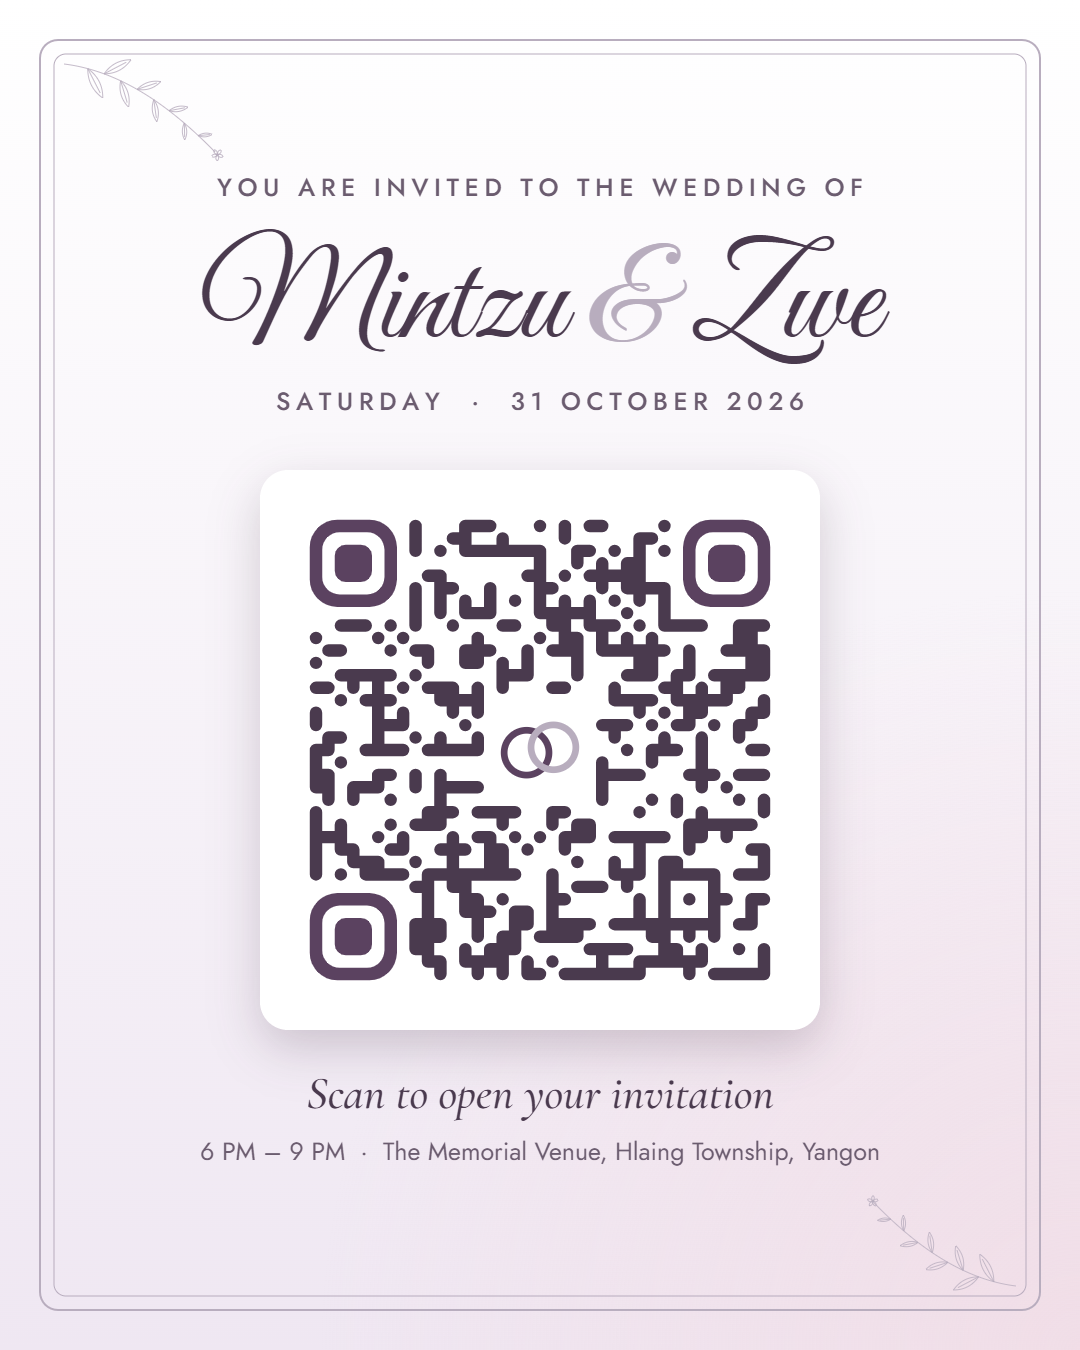
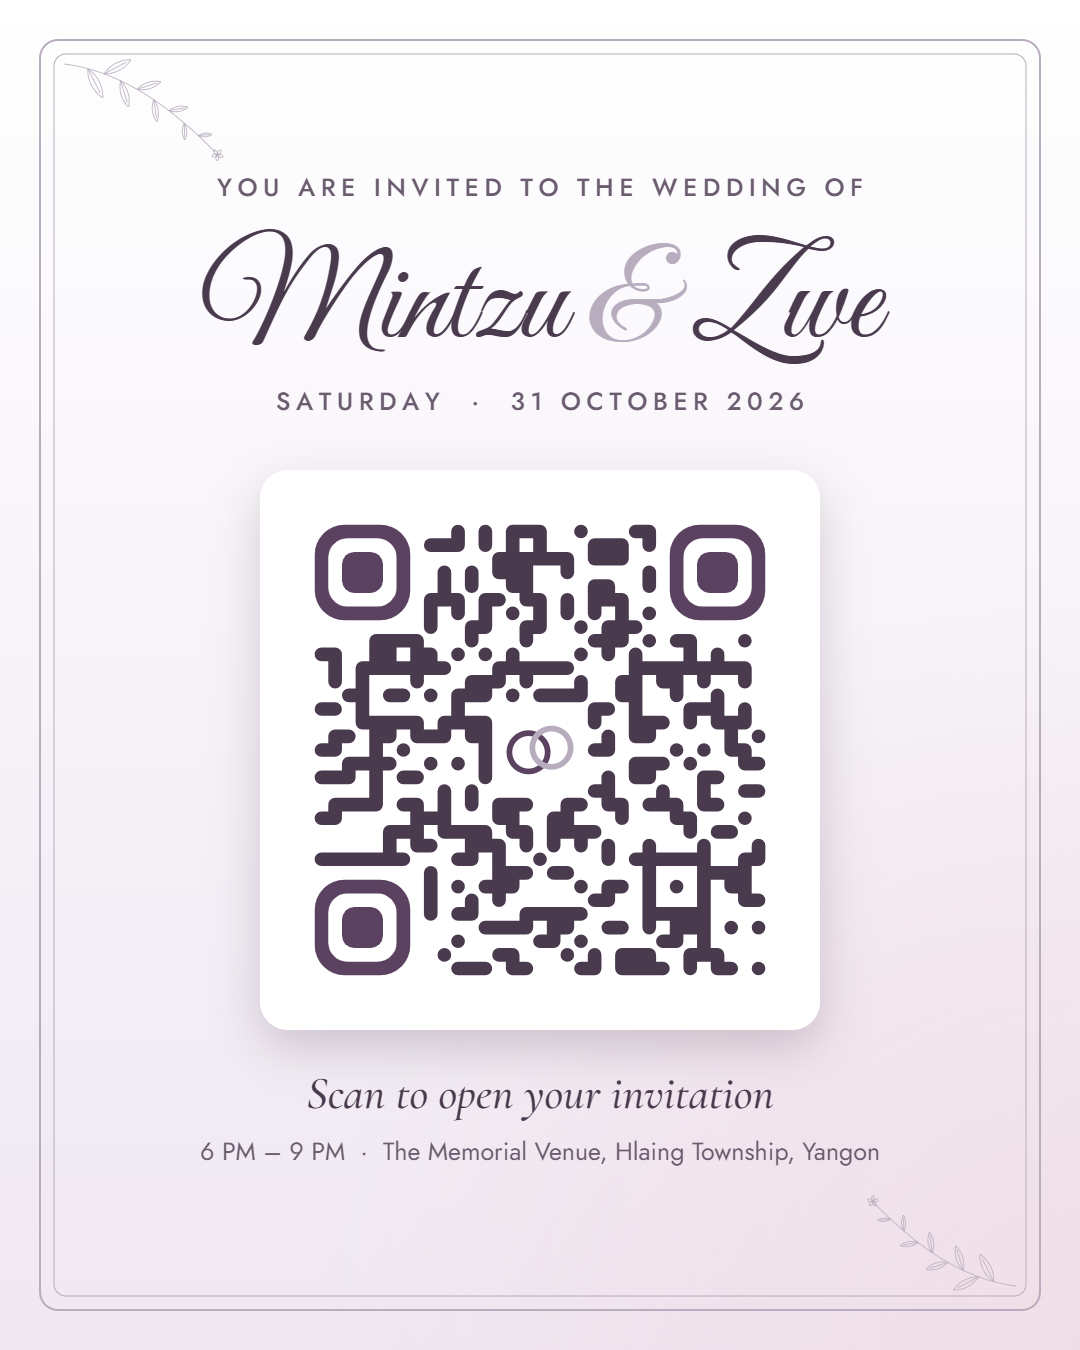
Point the QR page, QR files and link previews at mzforever.wedding
- qr.js always defaults to https://mzforever.wedding/, whichever host the
  page is opened on (vercel.app, Render, local preview).
- Regenerated public/qr/ (poster, PNG, SVG); each decodes to the new domain.
- og:url and og:image use the new domain.
- /qr opens the QR page: cleanUrls on Vercel, a rewrite on Render.
- README: live address, old address redirects, QR steps.

Changed region(s): [[0.275, 0.3733, 0.7333, 0.7467]]

diff --git a/public/js/qr.js b/public/js/qr.js
@@ -6,7 +6,7 @@
  * The QR matrix comes from qrcode-generator (public/vendor), loaded before this module.
  */
 
-const LIVE_URL = 'https://mom-wedding-design.vercel.app/';
+const LIVE_URL = 'https://mzforever.wedding/';
 const QUIET = 4;               // modules of clear space around the code (the QR minimum)
 const QR_PNG_SIZE = 1600;
 const POSTER_W = 1080;
@@ -348,9 +348,9 @@ function loadFonts() {
 }
 
 
-// Default to this site's own address; on a local preview, use the live one instead
-const here = parseUrl(`${window.location.origin}/`);
-input.value = new URLSearchParams(window.location.search).get('url') || (here && !isLocal(here) ? here.href : LIVE_URL);
+// Always the wedding's own domain, even when this page is opened on mzforever.vercel.app,
+// the Render copy or a local preview; ?url= or the field can still change it
+input.value = new URLSearchParams(window.location.search).get('url') || LIVE_URL;
 
 let debounce = 0;
 input.addEventListener('input', () => {

diff --git a/index.html b/index.html
@@ -10,10 +10,10 @@
 
   <!-- Link previews (Facebook, Viber, Messenger, Telegram). Crawlers need full https:// URLs. -->
   <meta property="og:type" content="website">
-  <meta property="og:url" content="https://mom-wedding-design.vercel.app/">
+  <meta property="og:url" content="https://mzforever.wedding/">
   <meta property="og:title" content="Mintzu &amp; Zwe · Wedding Invitation">
   <meta property="og:description" content="Saturday, 31 October 2026 · The Memorial Venue, Yangon. Tap to open your invitation.">
-  <meta property="og:image" content="https://mom-wedding-design.vercel.app/public/images/og-image.jpg">
+  <meta property="og:image" content="https://mzforever.wedding/public/images/og-image.jpg">
   <meta property="og:image:width" content="1200">
   <meta property="og:image:height" content="630">
   <meta name="twitter:card" content="summary_large_image">

diff --git a/qr.html b/qr.html
@@ -39,7 +39,7 @@
           <p class="hint" id="url-hint">Encoded: <span class="encoded" id="encoded"></span></p>
           <p class="error" id="url-error" hidden>Enter the full address, starting with https://</p>
         </div>
-        <p class="warn" id="local-warning" hidden>This is a local preview address, so it only works on this computer. Type the live website address (for example <strong>https://your-site.vercel.app/</strong>) before you download anything.</p>
+        <p class="warn" id="local-warning" hidden>This is a local preview address, so it only works on this computer. Use the live address, <strong>https://mzforever.wedding/</strong>, before you download anything.</p>
 
         <h2>2 · Download</h2>
         <div class="downloads">

diff --git a/README.md b/README.md
@@ -1,6 +1,8 @@
 # Mintzu & Zwe · Wedding invitation
 
-Static site on Vercel: <https://mom-wedding-design.vercel.app/>. Guests scan the QR, land on a sealed
+Live at <https://mzforever.wedding/> (Vercel; domain from Z.com, DNS records there; a spare copy runs
+on Render from `render.yaml`). The old <https://mom-wedding-design.vercel.app/> redirects to it, so
+QR codes made before the domain still work. Guests scan the QR, land on a sealed
 envelope, tap the seal and the printed card comes out. No build step and no outside requests: fonts,
 scripts and images are all in this repo.
 
@@ -46,7 +48,8 @@ answers range requests, and Python's server does not (Vercel does).
   96 kbps MP3). It starts when the guest taps the seal; the round button bottom-right turns it
   off and on.
 - **Colours:** `public/css/base.css` (`:root`). The QR reads its colours from there too.
-- **New QR** (only if the link changes): open `/qr.html`, check the link, download, scan with two
-  phones, then replace the files in `public/qr/`.
+- **New QR** (only if the link changes): open `/qr`, check the link (it defaults to
+  `https://mzforever.wedding/`, `LIVE_URL` in `public/js/qr.js`), download, scan with two phones,
+  then replace the files in `public/qr/`.
 
 Personal links: add `?to=Ko%20Aung` to the URL and the envelope says "Dear Ko Aung,".
